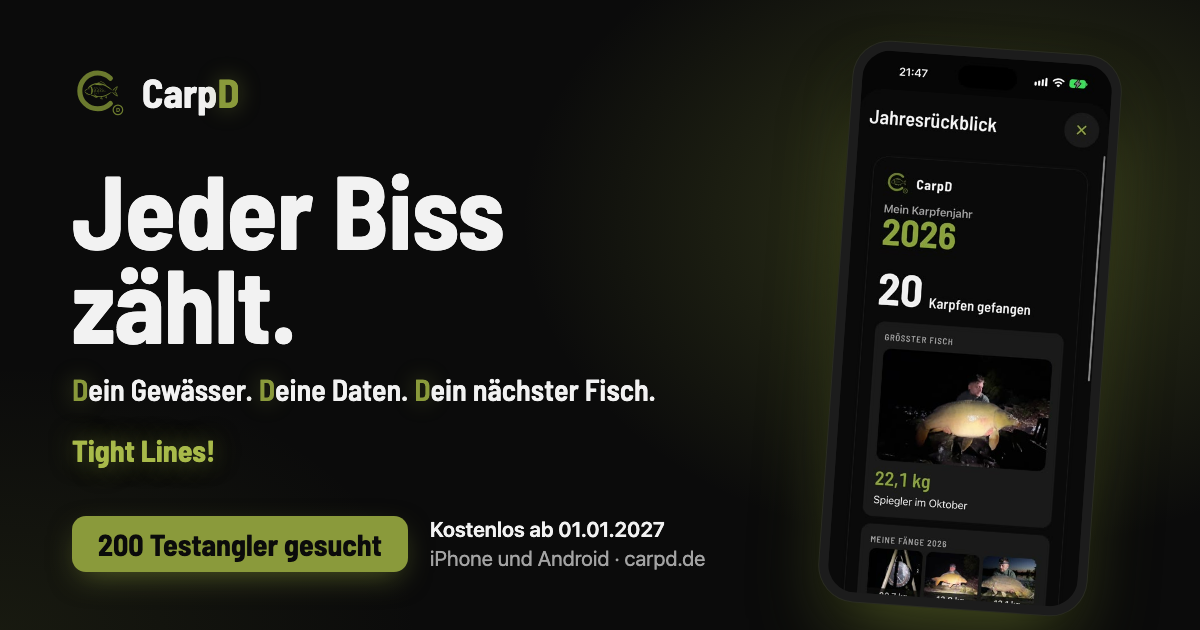
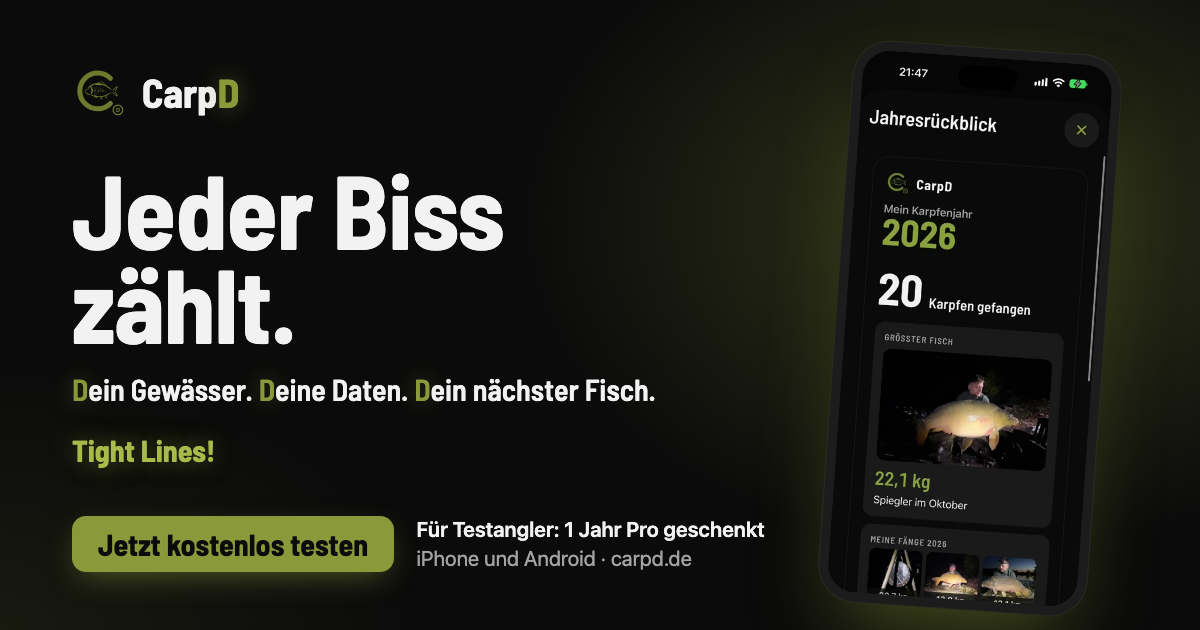
Anzeigen-Besucher: Überschrift „Für Testangler: 1 Jahr Pro kostenlos“, ab Wechsel Gründerpreis-Überschrift; Testangler-Inhalte bei voll ausblenden; neues Teilen-Bild

Changed region(s): [[0.0617, 0.8143, 0.6475, 0.9048]]

diff --git a/index.html b/index.html
@@ -324,6 +324,8 @@
     .test-zu { display: none; }
     .test.voll .test-offen { display: none; }
     .test.voll .test-zu { display: flex; }
+    /* Testangler voll (oder ab 01.01.): alles rund ums Testen ausblenden – gesetzt von gruender.js */
+    html[data-gruender="vorn"] #test, html[data-gruender="vorn"] .nur-test, html[data-gruender="vorn"] .start .termine { display: none; }
     .knapp { margin: 0; font-weight: 700; color: var(--oliv-hell); font-size: 1.1rem; }
 
     /* Besucher aus der Werbung (?utm_source=…): drei Vorteile + Formular gleich oben (Rest der Seite bleibt darunter) */
@@ -342,6 +344,25 @@
     body.werbung .formular-oben { display: block; margin: 6px 0 28px; }
     body.werbung .start .einleitung, body.werbung .start .aufruf, body.werbung .start .termine { display: none; }
     body.werbung .start { padding-top: 18px; }
+    /* Anzeigen-Besucher: das Angebot ist die Überschrift (Punkt 1 der Liste wäre doppelt) */
+    .h-werbung { display: none; }
+    body.werbung .h-normal { display: none; }
+    body.werbung .h-werbung { display: block; }
+    body.werbung h1 { font-size: clamp(54px, 9vw, 120px); line-height: .9; letter-spacing: -1px; margin: 0 0 14px; }
+    body.werbung h1 em { font-style: normal; color: var(--oliv-hell); }
+    body.werbung h1 .vorab { display: block; font-size: 26px; line-height: 1.2; letter-spacing: 0; color: var(--oliv-hell); margin: 0 0 6px; }
+    body.werbung .vorteile li:first-child { display: none; }
+    /* Ab dem Wechsel (01.01. oder Testangler voll): Anzeigen-Besucher sehen den Gründerpreis als Überschrift */
+    .h-gp { display: none; }
+    body.werbung-gp .h-normal { display: none; }
+    body.werbung-gp .h-gp { display: block; }
+    body.werbung-gp h1 { font-size: clamp(54px, 9vw, 120px); line-height: .9; letter-spacing: -1px; margin: 0 0 14px; }
+    body.werbung-gp h1 em { font-style: normal; color: var(--oliv-hell); }
+    body.werbung-gp h1 .vorab { display: block; font-size: 26px; line-height: 1.2; letter-spacing: 0; color: var(--oliv-hell); margin: 0 0 6px; }
+    body.werbung-gp .wasist { display: block; margin: 6px 0 8px; font-size: 1.25rem; line-height: 1.25; font-weight: 600; color: var(--oliv-hell, #A8BA4A); }
+    body.werbung-gp .start .einleitung, body.werbung-gp .start .aufruf, body.werbung-gp .start .termine { display: none; }
+    body.werbung-gp .start { padding-top: 18px; padding-bottom: 24px; }
+    @media (max-width: 980px) { body.werbung-gp .start .eckdaten, body.werbung-gp .start .breite > :nth-child(2) { display: none; } }
 
     /* Warteliste */
     .warte .breite > * { max-width: 780px; }
@@ -447,7 +468,7 @@
     <div class="start">
       <div class="breite">
         <div>
-          <h1>Jeder Biss zählt.</h1>
+          <h1><span class="h-normal">Jeder Biss zählt.</span><span class="h-werbung"><span class="vorab">Für Testangler:</span>1 Jahr CarpD Pro <em>kostenlos.</em></span><span class="h-gp"></span></h1>
           <p class="wasist">Die App nur für Karpfenangler</p>
           <p class="slogan">
             <span><span class="d">D</span>ein Gewässer.</span>
@@ -717,7 +738,7 @@
         <img src="logo.svg" alt="CarpD-Logo: Karpfen im C" width="150" height="150">
         <div>
           <h2>Wer steckt dahinter?</h2>
-          <p style="margin-top:24px">Wir sind Davide und Kresimir, selbst Karpfenangler. Wir kennen die Probleme am Wasser aus eigener Erfahrung, zum Beispiel um drei Uhr nachts nicht mehr zu wissen, auf welcher Rute es gepiept hat. Mit CarpD bauen wir die App, die genau das kann, was man beim Karpfenangeln braucht. Eure Rückmeldungen als Testangler fließen direkt in die App ein.</p>
+          <p style="margin-top:24px">Wir sind Davide und Kresimir, selbst Karpfenangler. Wir kennen die Probleme am Wasser aus eigener Erfahrung, zum Beispiel um drei Uhr nachts nicht mehr zu wissen, auf welcher Rute es gepiept hat. Mit CarpD bauen wir die App, die genau das kann, was man beim Karpfenangeln braucht.<span class="nur-test"> Eure Rückmeldungen als Testangler fließen direkt in die App ein.</span></p>
           <p class="gruss">Tight Lines!</p>
           <!-- Vorstellungsvideo (vom Marketing, 21.11.2026). Fassung mit englischen Untertiteln: uk/index.html (video/carpd-vorstellung-en.mp4). Bei Änderungen BEIDE Seiten anpassen. -->
           <figure>

diff --git a/gruender.js b/gruender.js
@@ -58,6 +58,8 @@ var GRUENDER = {
       testBeendet: 'Testangler-Anmeldung beendet',
       testZuText: 'Danke für euer Interesse! Sichere dir jetzt den Gründerpreis.',
       kopfKnopf: 'Gründerpreis sichern',
+      werbungVorab: 'Founder price – until launch only:', werbungTitel: 'CarpD Pro for {p}', werbungJahr: 'a year.',
+      werbungVorab: 'Gründerpreis – nur bis zum Start:', werbungTitel: 'CarpD Pro für {p}', werbungJahr: 'im Jahr.',
       datenschutz: 'datenschutz.html'
     },
     en: {
@@ -254,7 +256,16 @@ var GRUENDER = {
       var zuTitel = test.querySelector('.test-zu h3'), zuText = test.querySelector('.test-zu p');
       if (zuTitel) zuTitel.textContent = voll ? t.testVoll : t.testBeendet;
       if (zuText) zuText.textContent = t.testZuText;
-      document.querySelectorAll('a[href="#test"]').forEach(function (a) { a.setAttribute('href', '#gruender'); a.textContent = t.kopfKnopf; });
+      document.querySelectorAll('a[href="#test"], a[href="#formularOben"]').forEach(function (a) { a.setAttribute('href', '#gruender'); a.textContent = t.kopfKnopf; });
+      // Besucher aus der Werbung: statt „1 Jahr Pro für Testangler“ der Gründerpreis als Überschrift (Preis aus GRUENDER)
+      var hg = document.querySelector('.h-gp'), pr = GRUENDER.preise[sp];
+      if (document.body.classList.contains('werbung')) {
+        document.body.classList.remove('werbung');
+        if (hg && pr.gruender) {
+          hg.innerHTML = '<span class="vorab">' + esc(t.werbungVorab) + '</span>' + esc(t.werbungTitel.replace('{p}', pr.gruender)) + ' <em>' + esc(t.werbungJahr) + '</em>';
+          document.body.classList.add('werbung-gp');
+        }
+      }
     }
   }
 

diff --git a/uk/index.html b/uk/index.html
@@ -324,6 +324,8 @@
     .test-zu { display: none; }
     .test.voll .test-offen { display: none; }
     .test.voll .test-zu { display: flex; }
+    /* Testangler voll (oder ab 01.01.): alles rund ums Testen ausblenden – gesetzt von gruender.js */
+    html[data-gruender="vorn"] #test, html[data-gruender="vorn"] .nur-test, html[data-gruender="vorn"] .start .termine { display: none; }
     .knapp { margin: 0; font-weight: 700; color: var(--oliv-hell); font-size: 1.1rem; }
 
     /* Besucher aus der Werbung (?utm_source=…): drei Vorteile + Formular gleich oben (Rest der Seite bleibt darunter) */
